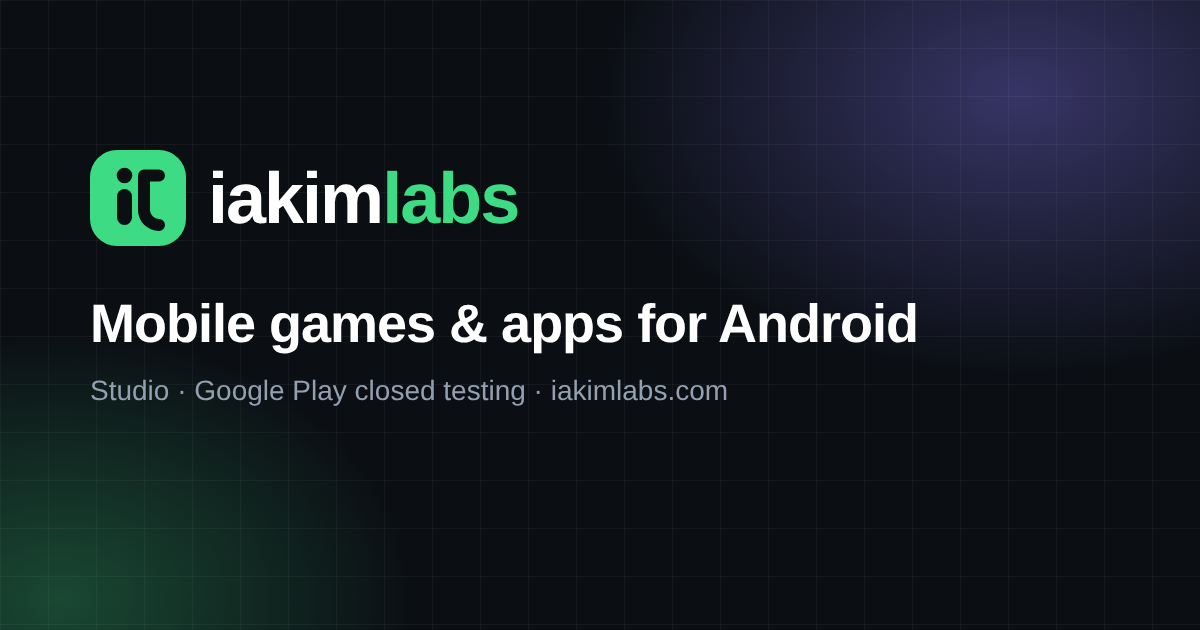
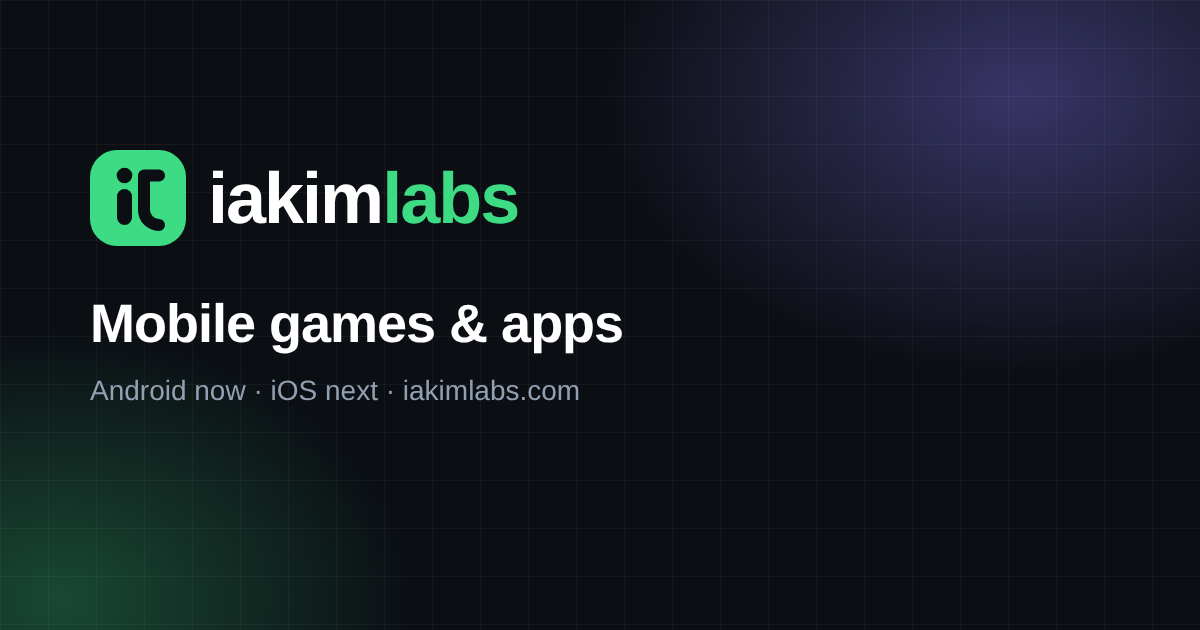
Make the site platform-neutral and iOS-ready
Neutral mobile wording, per-platform statuses and store buttons,
TestFlight status, platform/testing catalog filters, docs for iOS fields.

Claude-Session: https://claude.ai/code/session_0166y8BgE3d5ShrLBXU53SdE

Changed region(s): [[0.0617, 0.6032, 0.6167, 0.6333], [0.5242, 0.4825, 0.7708, 0.5429]]

diff --git a/_layouts/app.html b/_layouts/app.html
@@ -22,23 +22,21 @@ layout: default
         <img class="app-icon app-icon--xl" src="{{ app.icon | relative_url }}" alt="{{ app.title }} icon" width="128" height="128">
         <div class="app-hero__text">
           <div class="d-flex flex-wrap gap-2 mb-2">
-            {% include status-badge.html status=app.status %}
+            {% if app.platforms and app.platforms.size > 1 %}
+              {% assign a_st = app.android_status | default: app.status %}
+              {% assign i_st = app.ios_status | default: 'coming-soon' %}
+              {% if app.platforms contains 'Android' %}{% include platform-status.html platform='Android' status=a_st %}{% endif %}
+              {% if app.platforms contains 'iOS' %}{% include platform-status.html platform='iOS' status=i_st %}{% endif %}
+            {% else %}
+              {% include status-badge.html status=app.status %}
+            {% endif %}
             <span class="chip"><i class="bi {% if app.type == 'game' %}bi-controller{% else %}bi-grid-1x2{% endif %}"></i>{% if app.type == 'game' %}Game{% else %}App{% endif %}{% if app.genre %} · {{ app.genre }}{% endif %}</span>
           </div>
           <h1 class="app-title notranslate" translate="no">{{ app.title }}</h1>
           <p class="app-tagline">{{ app.tagline }}</p>
 
           <div class="d-flex flex-wrap gap-2 mt-3">
-            {% if app.status == 'live' %}
-              <a class="btn btn-play" href="{{ play_url }}" rel="noopener">
-                <i class="bi bi-google-play"></i><span><small>Get it on</small>Google Play</span>
-              </a>
-            {% elsif app.status == 'closed-testing' %}
-              <a class="btn btn-brand btn-lg" href="{{ '/contact/' | relative_url }}?subject=Tester%20for%20{{ app.title | uri_escape }}"><i class="bi bi-person-plus me-2"></i>Become a tester</a>
-              <a class="btn btn-ghost btn-lg" href="{{ testing_url }}" rel="noopener" title="Works only for Google accounts already added to the test"><i class="bi bi-box-arrow-up-right me-2"></i>Tester link</a>
-            {% else %}
-              <span class="btn btn-ghost btn-lg disabled" aria-disabled="true"><i class="bi bi-hourglass-split me-2"></i>Coming soon</span>
-            {% endif %}
+            {% include store-buttons.html app=app %}
           </div>
         </div>
       </div>
@@ -93,7 +91,8 @@ layout: default
             <dl class="info-list">
               <div><dt>Type</dt><dd>{% if app.type == 'game' %}Game{% else %}App{% endif %}{% if app.genre %} · {{ app.genre }}{% endif %}</dd></div>
               {% if app.platforms %}<div><dt>Platform</dt><dd>{{ app.platforms | join: ', ' }}</dd></div>{% endif %}
-              {% if app.min_android %}<div><dt>Requires</dt><dd>Android {{ app.min_android }}+</dd></div>{% endif %}
+              {% if app.min_android %}<div><dt>{% if app.min_ios %}Android{% else %}Requires{% endif %}</dt><dd>{% if app.min_ios %}{{ app.min_android }}+{% else %}Android {{ app.min_android }}+{% endif %}</dd></div>{% endif %}
+              {% if app.min_ios %}<div><dt>{% if app.min_android %}iOS{% else %}Requires{% endif %}</dt><dd>{% if app.min_android %}{{ app.min_ios }}+{% else %}iOS {{ app.min_ios }}+{% endif %}</dd></div>{% endif %}
               {% if app.version %}<div><dt>Version</dt><dd>{{ app.version }}</dd></div>{% endif %}
               {% if app.updated %}<div><dt>Updated</dt><dd>{{ app.updated | date: '%b %-d, %Y' }}</dd></div>{% endif %}
               {% if app.languages %}<div><dt>Languages</dt><dd>{{ app.languages | join: ', ' }}</dd></div>{% endif %}
@@ -103,7 +102,9 @@ layout: default
             <div class="info-links">
               <a href="{{ app.url | append: 'privacy/' | relative_url }}"><i class="bi bi-shield-lock"></i>Privacy policy</a>
               <a href="mailto:{{ app.support_email | default: site.email }}?subject={{ app.title | uri_escape }}%20support"><i class="bi bi-life-preserver"></i>Support</a>
-              {% if app.status == 'live' %}<a href="{{ play_url }}" rel="noopener"><i class="bi bi-google-play"></i>Google Play page</a>{% endif %}
+              {% assign a_live = app.android_status | default: app.status %}
+              {% if a_live == 'live' %}<a href="{{ play_url }}" rel="noopener"><i class="bi bi-google-play"></i>Google Play page</a>{% endif %}
+              {% if app.ios_status == 'live' and app.ios_url %}<a href="{{ app.ios_url }}" rel="noopener"><i class="bi bi-apple"></i>App Store page</a>{% endif %}
             </div>
           </div>
         </aside>

diff --git a/_includes/store-buttons.html b/_includes/store-buttons.html
@@ -1,0 +1,55 @@
+{% comment %}
+  Store / tester buttons for an app page. Usage: {% include store-buttons.html app=page %}
+  Per-platform status: android_status / ios_status (Android falls back to `status`, iOS to `coming-soon`).
+  Official store badge images can be set in _config.yml (badges.google_play / badges.app_store).
+{% endcomment %}
+{% assign app = include.app %}
+{% assign has_android = true %}
+{% assign has_ios = false %}
+{% if app.platforms %}
+  {% unless app.platforms contains 'Android' %}{% assign has_android = false %}{% endunless %}
+  {% if app.platforms contains 'iOS' %}{% assign has_ios = true %}{% endif %}
+{% endif %}
+{% assign a_status = app.android_status | default: app.status %}
+{% assign i_status = app.ios_status | default: 'coming-soon' %}
+{% assign multi = false %}
+{% if has_android and has_ios %}{% assign multi = true %}{% endif %}
+{% assign tester_cta = false %}
+
+{% if has_android %}
+  {% if a_status == 'live' %}
+    {% if site.badges.google_play and site.badges.google_play != '' %}
+      <a class="store-badge" href="{{ play_url }}" rel="noopener"><img src="{{ site.badges.google_play | relative_url }}" alt="Get it on Google Play" height="52"></a>
+    {% else %}
+      <a class="btn btn-play" href="{{ play_url }}" rel="noopener"><i class="bi bi-google-play"></i><span><small>Get it on</small>Google Play</span></a>
+    {% endif %}
+  {% elsif a_status == 'closed-testing' %}
+    {% assign tester_cta = true %}
+    <a class="btn btn-brand btn-lg" href="{{ '/contact/' | relative_url }}?subject=Tester%20for%20{{ app.title | uri_escape }}"><i class="bi bi-person-plus me-2"></i>Become a tester</a>
+    <a class="btn btn-ghost btn-lg" href="{{ testing_url }}" rel="noopener" title="Works only for Google accounts already added to the test"><i class="bi bi-box-arrow-up-right me-2"></i>{% if multi %}Android tester link{% else %}Tester link{% endif %}</a>
+  {% elsif multi %}
+    <span class="btn btn-ghost btn-lg disabled" aria-disabled="true"><i class="bi bi-android2 me-2"></i>Android · soon</span>
+  {% endif %}
+{% endif %}
+
+{% if has_ios %}
+  {% if i_status == 'live' and app.ios_url %}
+    {% if site.badges.app_store and site.badges.app_store != '' %}
+      <a class="store-badge" href="{{ app.ios_url }}" rel="noopener"><img src="{{ site.badges.app_store | relative_url }}" alt="Download on the App Store" height="52"></a>
+    {% else %}
+      <a class="btn btn-play" href="{{ app.ios_url }}" rel="noopener"><i class="bi bi-apple"></i><span><small>Download on the</small>App Store</span></a>
+    {% endif %}
+  {% elsif i_status == 'testflight' %}
+    {% if app.ios_testflight_url %}
+      <a class="btn btn-brand btn-lg" href="{{ app.ios_testflight_url }}" rel="noopener"><i class="bi bi-apple me-2"></i>Join TestFlight beta</a>
+    {% elsif tester_cta == false %}
+      <a class="btn btn-brand btn-lg" href="{{ '/contact/' | relative_url }}?subject=iOS%20tester%20for%20{{ app.title | uri_escape }}"><i class="bi bi-person-plus me-2"></i>Become a tester</a>
+    {% endif %}
+  {% else %}
+    <span class="btn btn-ghost btn-lg disabled" aria-disabled="true"><i class="bi bi-apple me-2"></i>iOS · soon</span>
+  {% endif %}
+{% endif %}
+
+{% if multi == false and has_android and a_status != 'live' and a_status != 'closed-testing' %}
+  <span class="btn btn-ghost btn-lg disabled" aria-disabled="true"><i class="bi bi-hourglass-split me-2"></i>Coming soon</span>
+{% endif %}

diff --git a/apps/index.html b/apps/index.html
@@ -1,13 +1,15 @@
 ---
 layout: default
 title: Apps & Games
-description: All games and apps by iakimlabs for Android — released, in testing and in development.
+description: All mobile games and apps by iakimlabs — released, in testing and in development.
 permalink: /apps/
 ---
 {% assign apps_sorted = site.apps | sort: 'order' %}
 {% assign games = apps_sorted | where: 'type', 'game' %}
 {% assign tools = apps_sorted | where: 'type', 'app' %}
-{% assign testing = apps_sorted | where: 'status', 'closed-testing' %}
+{% assign testing = apps_sorted | where_exp: "a", "a.status == 'closed-testing' or a.android_status == 'closed-testing' or a.ios_status == 'testflight'" %}
+{% assign android_apps = apps_sorted | where_exp: "a", "a.platforms == nil or a.platforms contains 'Android'" %}
+{% assign ios_apps = apps_sorted | where_exp: "a", "a.platforms contains 'iOS'" %}
 
 <section class="page-hero">
   <div class="container">
@@ -24,7 +26,11 @@ permalink: /apps/
         <button class="filter active" type="button" data-filter="all">All <span>{{ apps_sorted.size }}</span></button>
         <button class="filter" type="button" data-filter="game"><i class="bi bi-controller"></i>Games <span>{{ games.size }}</span></button>
         <button class="filter" type="button" data-filter="app"><i class="bi bi-grid-1x2"></i>Apps <span>{{ tools.size }}</span></button>
-        <button class="filter" type="button" data-filter="closed-testing"><i class="bi bi-bug"></i>In testing <span>{{ testing.size }}</span></button>
+        <button class="filter" type="button" data-filter="testing"><i class="bi bi-bug"></i>In testing <span>{{ testing.size }}</span></button>
+        {% if ios_apps.size > 0 %}
+        <button class="filter" type="button" data-filter="android"><i class="bi bi-android2"></i>Android <span>{{ android_apps.size }}</span></button>
+        <button class="filter" type="button" data-filter="ios"><i class="bi bi-apple"></i>iOS <span>{{ ios_apps.size }}</span></button>
+        {% endif %}
       </div>
       <label class="search">
         <i class="bi bi-search"></i>
@@ -43,4 +49,4 @@ permalink: /apps/
   </div>
 </section>
 
-{% include cta.html title="Building an Android app yourself?" text="We can help with closed testing and getting your first release onto Google Play." %}
+{% include cta.html title="Building a mobile app yourself?" text="We can help with closed testing and getting your first release onto Google Play." %}

diff --git a/assets/css/main.css b/assets/css/main.css
@@ -320,8 +320,8 @@ a { text-underline-offset: .2em; }
   border: 1px solid var(--line); background: var(--surface-2); color: var(--bs-secondary-color);
 }
 .status--live { color: var(--brand-ink); background: color-mix(in srgb, var(--brand) 14%, transparent); border-color: color-mix(in srgb, var(--brand) 35%, transparent); }
-.status--closed-testing { color: #c98a00; background: rgba(245, 165, 36, .14); border-color: rgba(245, 165, 36, .35); }
-[data-bs-theme="dark"] .status--closed-testing { color: #ffc35a; }
+.status--closed-testing, .status--testflight { color: #c98a00; background: rgba(245, 165, 36, .14); border-color: rgba(245, 165, 36, .35); }
+[data-bs-theme="dark"] .status--closed-testing, [data-bs-theme="dark"] .status--testflight { color: #ffc35a; }
 .status--in-development { color: var(--brand-2); background: color-mix(in srgb, var(--brand-2) 14%, transparent); border-color: color-mix(in srgb, var(--brand-2) 35%, transparent); }
 
 /* ─── Catalog ──────────────────────────────────────────── */
@@ -564,3 +564,8 @@ font[style] { background: none !important; box-shadow: none !important; }
 .policy-item__text b { color: var(--bs-emphasis-color); font-family: var(--font-display); font-size: 1.1rem; }
 .policy-item__text small { color: var(--bs-secondary-color); font-size: .85rem; }
 .policy-item > i { color: var(--brand-ink); }
+
+/* ─── Multi-platform ───────────────────────────────────── */
+.app-card__platforms { display: inline-flex; gap: .4rem; font-size: .95rem; }
+.store-badge { display: inline-flex; align-items: center; }
+.store-badge img { height: 52px; width: auto; }

diff --git a/_includes/app-card.html b/_includes/app-card.html
@@ -1,6 +1,8 @@
 {% assign app = include.app %}
+{% capture all_status %}{{ app.status }} {{ app.android_status }} {{ app.ios_status }}{% endcapture %}
+{% capture plat_list %}{% if app.platforms %}{{ app.platforms | join: ' ' | downcase }}{% else %}android{% endif %}{% endcapture %}
 <article class="app-card" style="--app-accent: {{ app.accent | default: '#3ddc84' }}"
-  data-app-card data-type="{{ app.type }}" data-status="{{ app.status }}"
+  data-app-card data-type="{{ app.type }}" data-status="{{ all_status | strip }}" data-platforms="{{ plat_list }}"
   data-search="{{ app.title | downcase }} {{ app.tagline | downcase }} {{ app.genre | downcase }} {{ app.type }}">
   <div class="app-card__glow" aria-hidden="true"></div>
   <div class="app-card__top">
@@ -12,6 +14,7 @@
   <div class="app-card__meta">
     <span><i class="bi {% if app.type == 'game' %}bi-controller{% else %}bi-grid-1x2{% endif %}"></i>{% if app.type == 'game' %}Game{% else %}App{% endif %}</span>
     {% if app.genre %}<span>{{ app.genre }}</span>{% endif %}
+    {% if app.platforms and app.platforms.size > 1 %}<span class="app-card__platforms" title="{{ app.platforms | join: ', ' }}">{% if app.platforms contains 'Android' %}<i class="bi bi-android2"></i>{% endif %}{% if app.platforms contains 'iOS' %}<i class="bi bi-apple"></i>{% endif %}</span>{% endif %}
     <span class="ms-auto app-card__arrow"><i class="bi bi-arrow-up-right"></i></span>
   </div>
 </article>

diff --git a/index.html b/index.html
@@ -1,6 +1,6 @@
 ---
 layout: default
-title: Mobile games & apps for Android
+title: Mobile games & apps
 body_class: home
 ---
 {% assign apps_sorted = site.apps | sort: 'order' %}
@@ -12,7 +12,7 @@ body_class: home
   <div class="container">
     <div class="row align-items-center g-5">
       <div class="col-lg-6">
-        <p class="eyebrow"><span class="dot"></span>Independent Android studio</p>
+        <p class="eyebrow"><span class="dot"></span>Independent mobile studio</p>
         <h1 class="hero__title">We craft <span class="text-gradient">games &amp; apps</span> for the phone in your pocket.</h1>
         <p class="hero__lead">{{ site.data.studio.about_short }} We also run closed testing for developers preparing their first Google Play release.</p>
         <div class="d-flex flex-wrap gap-2 mt-4">
@@ -20,7 +20,7 @@ body_class: home
           <a class="btn btn-ghost btn-lg" href="{{ '/testing/' | relative_url }}">Closed testing service</a>
         </div>
         <ul class="hero__facts">
-          <li><i class="bi bi-android2"></i>Android first</li>
+          <li><i class="bi bi-android2"></i>Android now, iOS next</li>
           <li><i class="bi bi-phone-vibrate"></i>Tested on real devices</li>
           <li><i class="bi bi-shield-check"></i>Privacy-friendly</li>
         </ul>

diff --git a/about.html b/about.html
@@ -1,14 +1,14 @@
 ---
 layout: default
 title: About
-description: About iakimlabs — an independent studio making Android games and apps.
+description: About iakimlabs — an independent studio making mobile games and apps.
 permalink: /about/
 ---
 {% assign st = site.data.studio %}
 <section class="page-hero">
   <div class="container">
     <p class="eyebrow">About</p>
-    <h1 class="page-title">An independent studio for Android</h1>
+    <h1 class="page-title">An independent mobile studio</h1>
     <p class="lead page-lead">{{ st.about_short }}</p>
   </div>
 </section>
@@ -58,4 +58,4 @@ permalink: /about/
 </section>
 
 <div class="pt-5"></div>
-{% include cta.html title="Have an idea or a question?" text="We're always happy to talk about games, apps and Android." %}
+{% include cta.html title="Have an idea or a question?" text="We're always happy to talk about games, apps and mobile." %}

diff --git a/assets/js/main.js b/assets/js/main.js
@@ -96,7 +96,9 @@
       var q = (input.value || '').trim().toLowerCase();
       var shown = 0;
       cards.forEach(function (c) {
-        var okFilter = filter === 'all' || c.dataset.type === filter || c.dataset.status === filter;
+        var has = function (attr, word) { return (' ' + (c.dataset[attr] || '') + ' ').indexOf(' ' + word + ' ') !== -1; };
+        var okFilter = filter === 'all' || c.dataset.type === filter || has('platforms', filter) ||
+          (filter === 'testing' && (has('status', 'closed-testing') || has('status', 'testflight')));
         var okSearch = !q || c.dataset.search.indexOf(q) !== -1;
         var show = okFilter && okSearch;
         c.hidden = !show;

diff --git a/_layouts/privacy.html b/_layouts/privacy.html
@@ -29,7 +29,7 @@ layout: default
       {% else %}
       <p>This privacy policy explains how <strong class="notranslate" translate="no">{{ app.title }}</strong>
       (the “{% if app.type == 'game' %}Game{% else %}App{% endif %}”), developed by
-      <span class="notranslate" translate="no">iakimlabs</span> (“we”, “us”), handles information when you use it on your Android device.</p>
+      <span class="notranslate" translate="no">iakimlabs</span> (“we”, “us”), handles information when you use it on your mobile device.</p>
 
       <h2>Information we collect</h2>
       {% if p.collects_personal_data %}

diff --git a/_includes/platform-status.html b/_includes/platform-status.html
@@ -1,0 +1,1 @@
+{% assign s = site.data.statuses[include.status] %}{% if s %}<span class="status status--{{ include.status }}"><i class="bi {% if include.platform == 'iOS' %}bi-apple{% else %}bi-android2{% endif %}"></i>{{ include.platform }} · {{ s.label }}</span>{% endif %}

diff --git a/docs/SITE-GUIDE.md b/docs/SITE-GUIDE.md
@@ -50,6 +50,24 @@ CNAME                  iakimlabs.com
 **Статусы:** `live` (кнопка «Get it on Google Play»), `closed-testing` (кнопки «Become a tester» / «Tester link»), `in-development`, `coming-soon`.
 Ссылки на Google Play строятся из `package` автоматически.
 
+### Добавление iOS (или другой платформы)
+
+Приложение без поля `platforms` считается только для Android. Чтобы добавить iOS, правьте только файл приложения:
+
+```yaml
+platforms: [Android, iOS]
+android_status: live            # статус по платформе (если нет — берётся `status`)
+ios_status: testflight          # live | testflight | in-development | coming-soon
+ios_url: https://apps.apple.com/app/id0000000000        # когда ios_status: live
+ios_testflight_url: https://testflight.apple.com/join/XXXX   # когда ios_status: testflight
+min_ios: "16.0"
+```
+
+- Кнопки, бейджи статусов, значки платформ на карточке и фильтры **Android / iOS / In testing** в каталоге появляются сами (фильтры платформ видны, только когда есть iOS-приложение).
+- Статус `testflight` = «TestFlight beta».
+- **Официальные бейджи магазинов:** сейчас кнопки — простые текстовые заглушки. Скачайте фирменные бейджи Google и Apple, положите в `assets/img/badges/` и укажите пути в `badges.google_play` / `badges.app_store` в `_config.yml`. Соблюдайте правила использования бейджей.
+- Когда iOS-приложение выйдет, добавьте в футер строку о товарном знаке Apple («App Store is a service mark of Apple Inc.»).
+
 ## Публикация на GitHub Pages
 
 1. Создайте репозиторий **`iakimlabs.github.io`** в аккаунте `iakimlabs` и загрузите туда эти файлы.

diff --git a/README.md b/README.md
@@ -4,9 +4,9 @@
 
 # iakimlabs
 
-**Mobile games & apps for Android**
+**Mobile games & apps**
 
-An independent studio that designs, builds and publishes small, polished Android games and apps — and helps other developers get through Google Play closed testing.
+An independent studio that designs, builds and publishes small, polished mobile games and apps — starting on Android, with iOS next — and helps other developers get through Google Play closed testing.
 
 [**iakimlabs.com**](https://iakimlabs.com) · [Apps & Games](https://iakimlabs.com/apps/) · [Closed testing](https://iakimlabs.com/testing/) · [Contact](https://iakimlabs.com/contact/)
 
@@ -24,14 +24,14 @@ More games and apps are on the way.
 
 ## What we do
 
-- 🎮 **Mobile games** — casual and arcade games for Android that are easy to pick up and hard to put down.
+- 🎮 **Mobile games** — casual and arcade games for phones and tablets that are easy to pick up and hard to put down.
 - 📱 **Mobile apps** — useful tools with clean interfaces and careful attention to detail.
 - 👥 **Closed testing for Google Play** — engaged testers for the 12-testers / 14-days requirement for new personal developer accounts, with daily usage and honest feedback. [How it works →](https://iakimlabs.com/testing/)
 - 🚀 **Publishing support** — store listing, privacy policy page and a release checklist for your first Google Play launch.
 
 ## Principles
 
-- **Android first** — designed for different screens, devices and Android versions.
+- **Built for real phones** — designed for different screens, devices and OS versions. Android now, iOS next.
 - **Small and polished** — fewer features, done properly.
 - **Respect for players** — clear privacy policies and only the data an app really needs.
 - **Listening to feedback** — testers and players shape every update.
